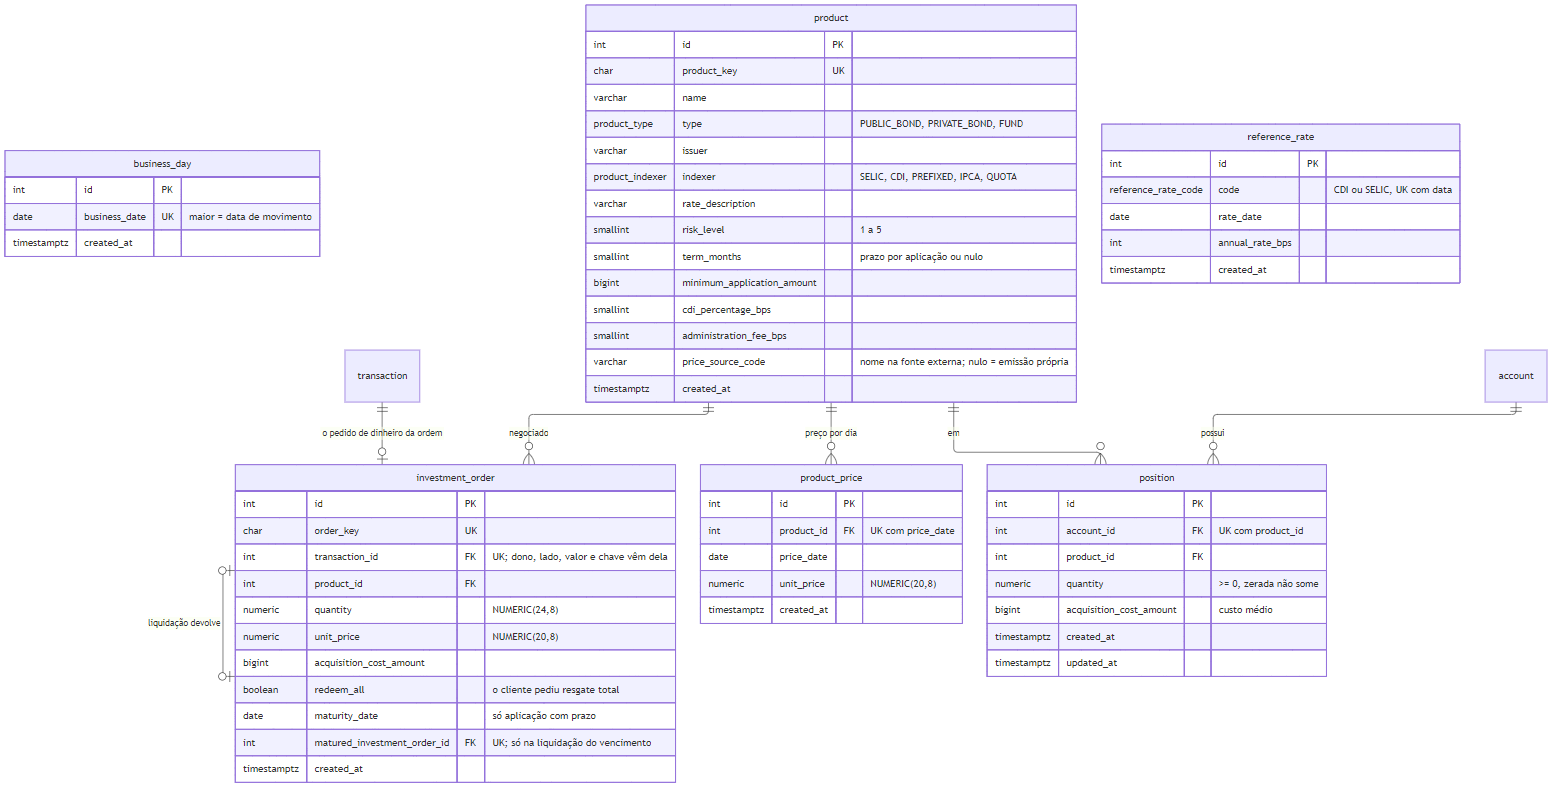
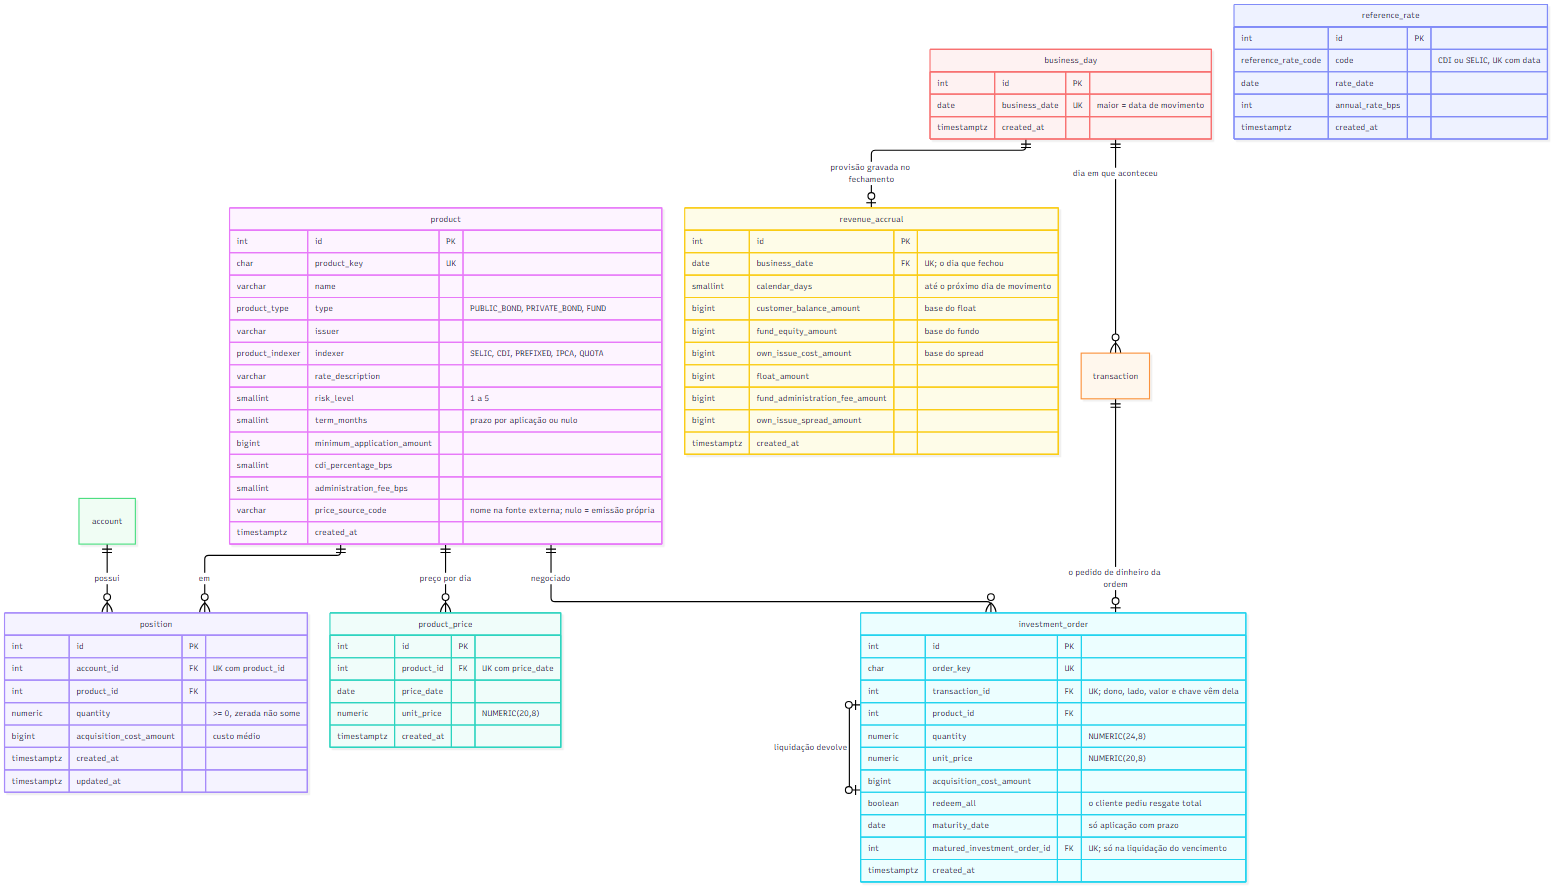
:tada: add: revenue-accrual-&-transaction-business-date

diff --git a/src/models/revenue_accrual.py b/src/models/revenue_accrual.py
@@ -1,0 +1,21 @@
+from sqlalchemy import BigInteger, Column, Date, DateTime, ForeignKey, Integer, SmallInteger, func
+
+from models.base import Base
+
+
+class RevenueAccrual(Base):
+    """A provisão diária: as bases do fim do dia e o que o banco ganharia com elas (RN-REC-05 a 07)."""
+
+    __tablename__ = "revenue_accrual"
+
+    id = Column(Integer, primary_key=True)
+    business_date = Column(Date, ForeignKey("business_day.business_date"), nullable=False, unique=True)
+    # Dias corridos até o próximo dia de movimento: a de sexta vale o fim de semana.
+    calendar_days = Column(SmallInteger, nullable=False)
+    customer_balance_amount = Column(BigInteger, nullable=False)
+    fund_equity_amount = Column(BigInteger, nullable=False)
+    own_issue_cost_amount = Column(BigInteger, nullable=False)
+    float_amount = Column(BigInteger, nullable=False)
+    fund_administration_fee_amount = Column(BigInteger, nullable=False)
+    own_issue_spread_amount = Column(BigInteger, nullable=False)
+    created_at = Column(DateTime(timezone=True), nullable=False, server_default=func.now())

diff --git a/src/models/transaction.py b/src/models/transaction.py
@@ -1,4 +1,4 @@
-from sqlalchemy import BigInteger, CHAR, Column, DateTime, Enum, ForeignKey, Integer, String, Uuid, func
+from sqlalchemy import BigInteger, CHAR, Column, Date, DateTime, Enum, ForeignKey, Integer, String, Uuid, func
 from sqlalchemy.orm import relationship
 
 from models.base import Base
@@ -29,9 +29,11 @@ class Transaction(Base):
     description = Column(String(140))
     # Única no banco inteiro; nula quando o próprio banco cria a transação.
     idempotency_key = Column(Uuid(as_uuid=False), unique=True)
+    # O dia da transação no calendário do banco (a data de movimento).
+    business_date = Column(Date, ForeignKey("business_day.business_date"), nullable=False)
     created_at = Column(DateTime(timezone=True), nullable=False, server_default=func.now())
 
-    owner_account = relationship("Account", foreign_keys=[owner_account_id])
+    owner_account =relationship("Account", foreign_keys=[owner_account_id])
     destination_account = relationship("Account", foreign_keys=[destination_account_id])
 
 

diff --git a/src/models/__init__.py b/src/models/__init__.py
@@ -13,3 +13,4 @@ from models.product import Product, ProductPrice
 from models.investment_order import InvestmentOrder, Position
 from models.model_portfolio import ModelPortfolioItem
 from models.reference_rate import ReferenceRate
+from models.revenue_accrual import RevenueAccrual
